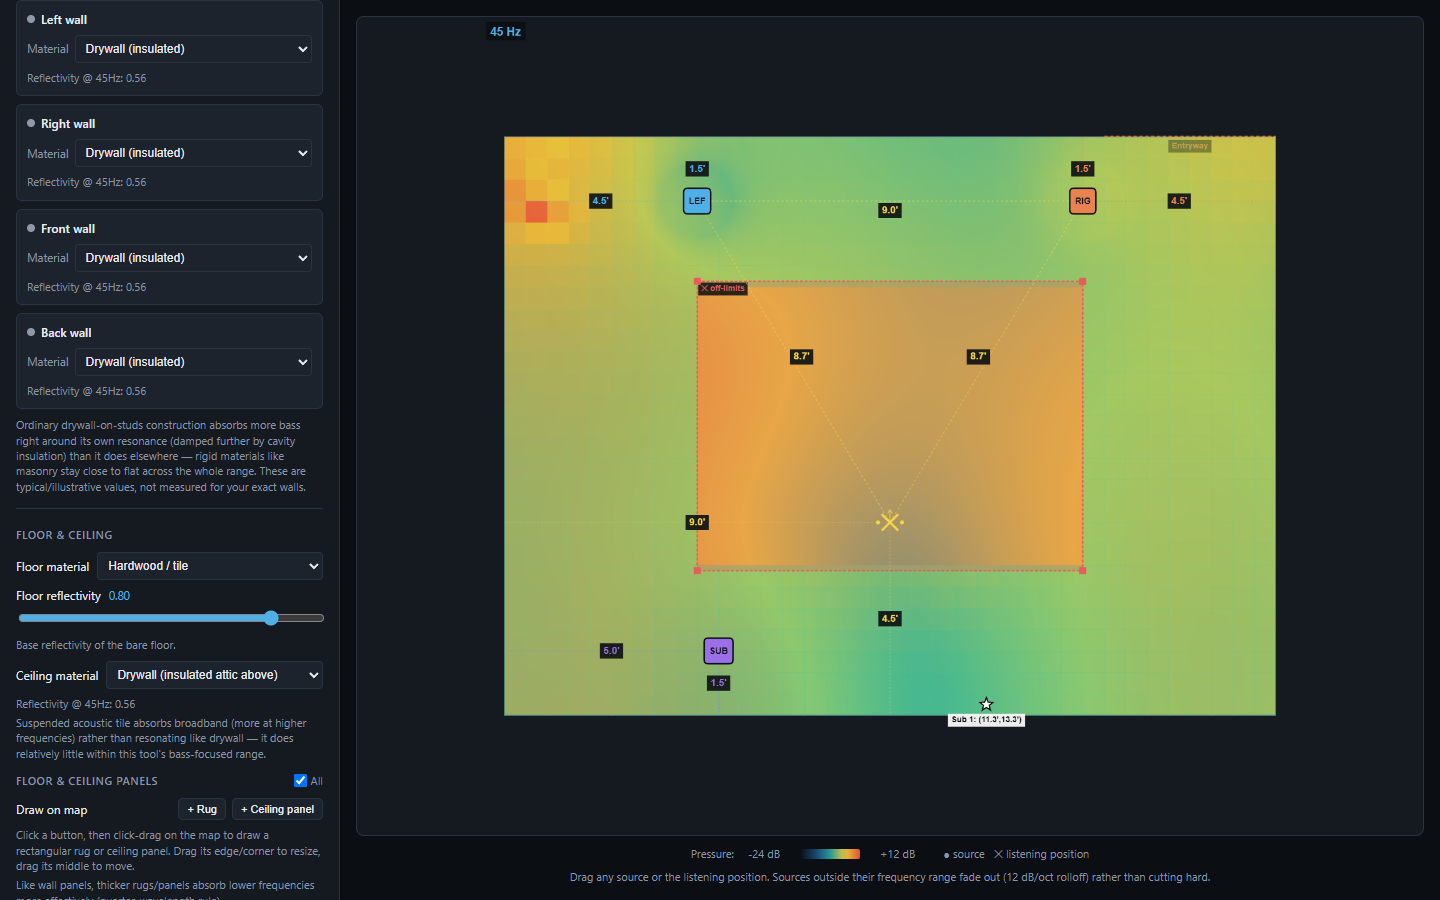
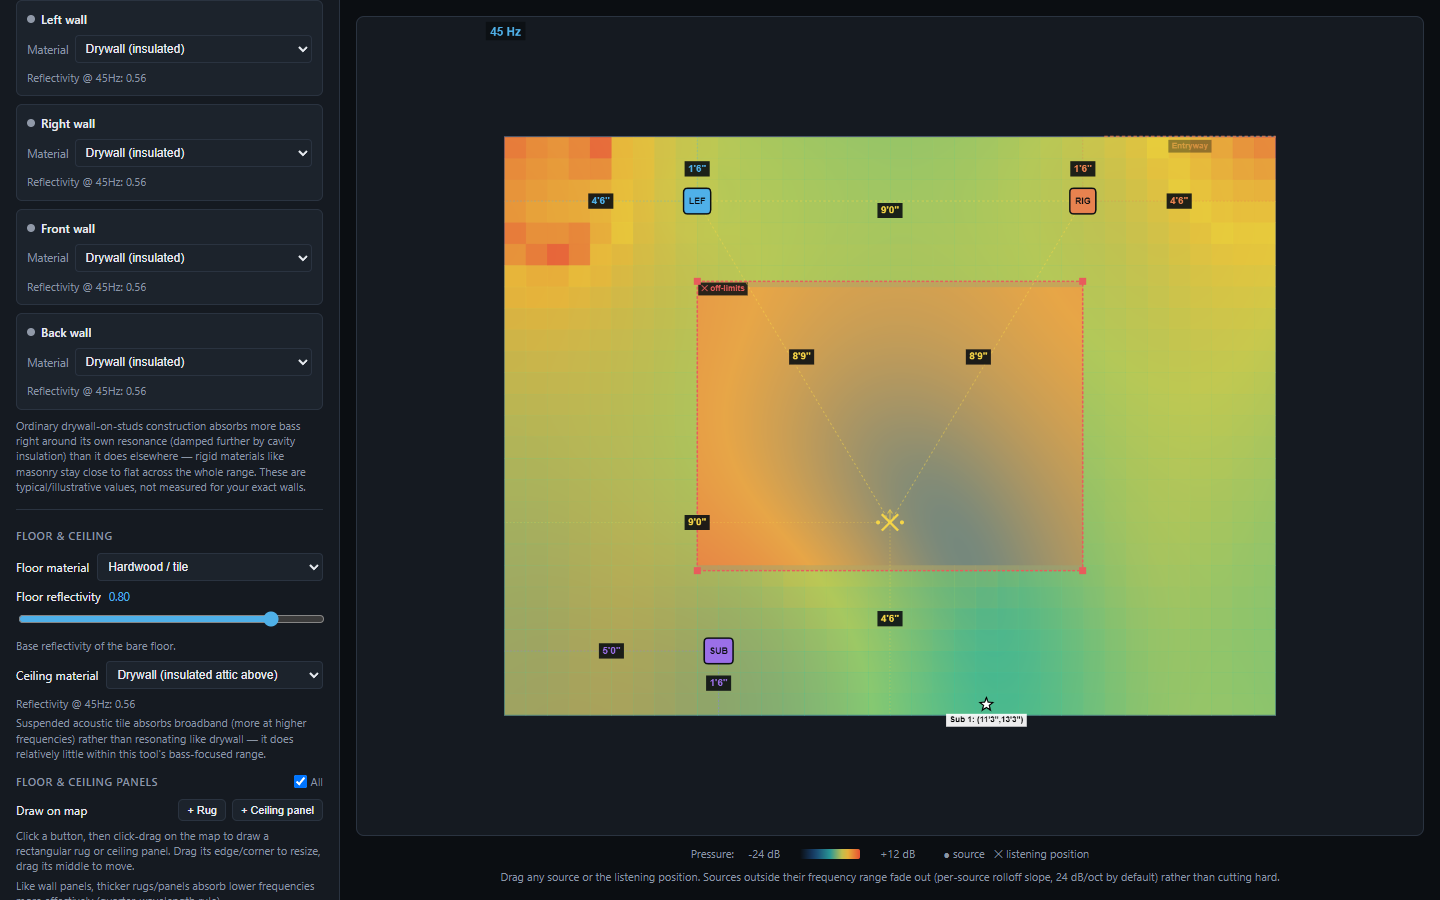
Regenerate README screenshots/GIFs, add symmetric-null optimizer demo
Refreshed the 3 screenshots (overview/optimizer/materials) to reflect
the current UI (units toggle, frequency response chart, per-source
rolloff). Redid the sweep GIF at roughly 2x the previous resolution
(961x738 vs 481x369) with a room containing two subs placed
symmetrically, to actually demonstrate a real bad null at the
listening position (the same symmetric-placement pitfall discussed
in this session -- symmetric subs excite room modes symmetrically,
often nulling exactly at the centerline seat).

Added a second GIF (optimizer-demo.gif): same symmetric-null scene,
running the sub-placement optimizer and animating the two subs
relocating to its suggested (asymmetric) positions, with both the
heatmap and the frequency response chart visible together so the
before/after improvement shows in both views at once.

diff --git a/README.md b/README.md
@@ -6,7 +6,13 @@ A browser-based tool for reasoning about bass response in a real room. It render
 
 No build step, no dependencies: open `src/modal.html` in a browser.
 
-![Frequency sweep across a room, showing the interference pattern shift as frequency changes](docs/sweep-demo.gif)
+![Frequency sweep across a room with two symmetrically-placed subs, showing a bad null forming at the listening position as frequency changes](docs/sweep-demo.gif)
+
+Symmetric sub placement is a classic trap: it's visually tidy, but it excites the room's modes symmetrically too, often carving a null right at the centerline seat where the couch usually is. The sweep above shows exactly that.
+
+![The subwoofer optimizer relocating the same two subs off the symmetric null, with the heatmap and frequency response chart improving together](docs/optimizer-demo.gif)
+
+Same room, same two subs, same frequency, before/after running the sub-placement optimizer. It deliberately breaks the symmetry to get off the shared null, and both the heat map and the spatially-averaged frequency response chart show the improvement together.
 
 ## Screenshots
 
